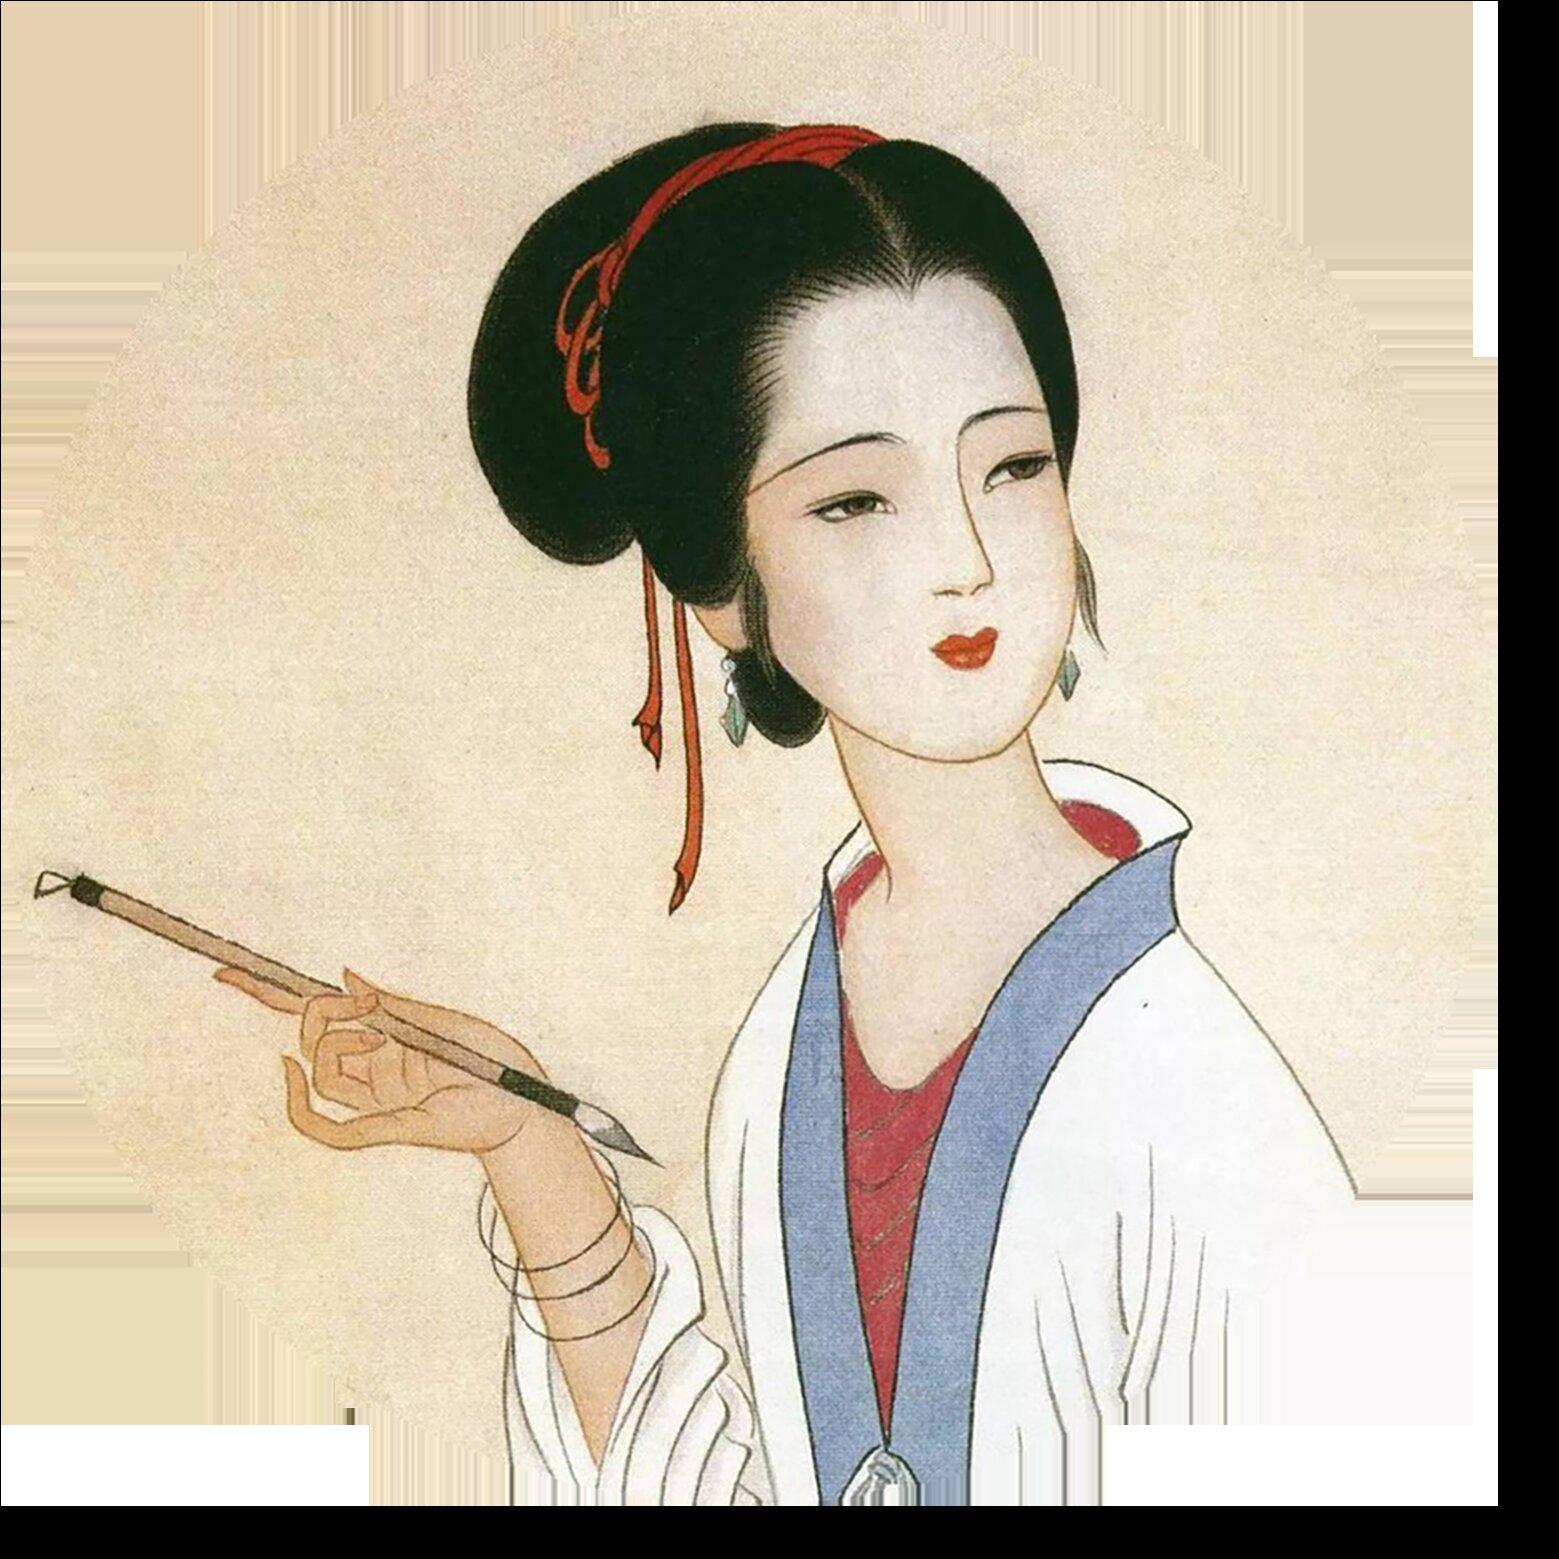
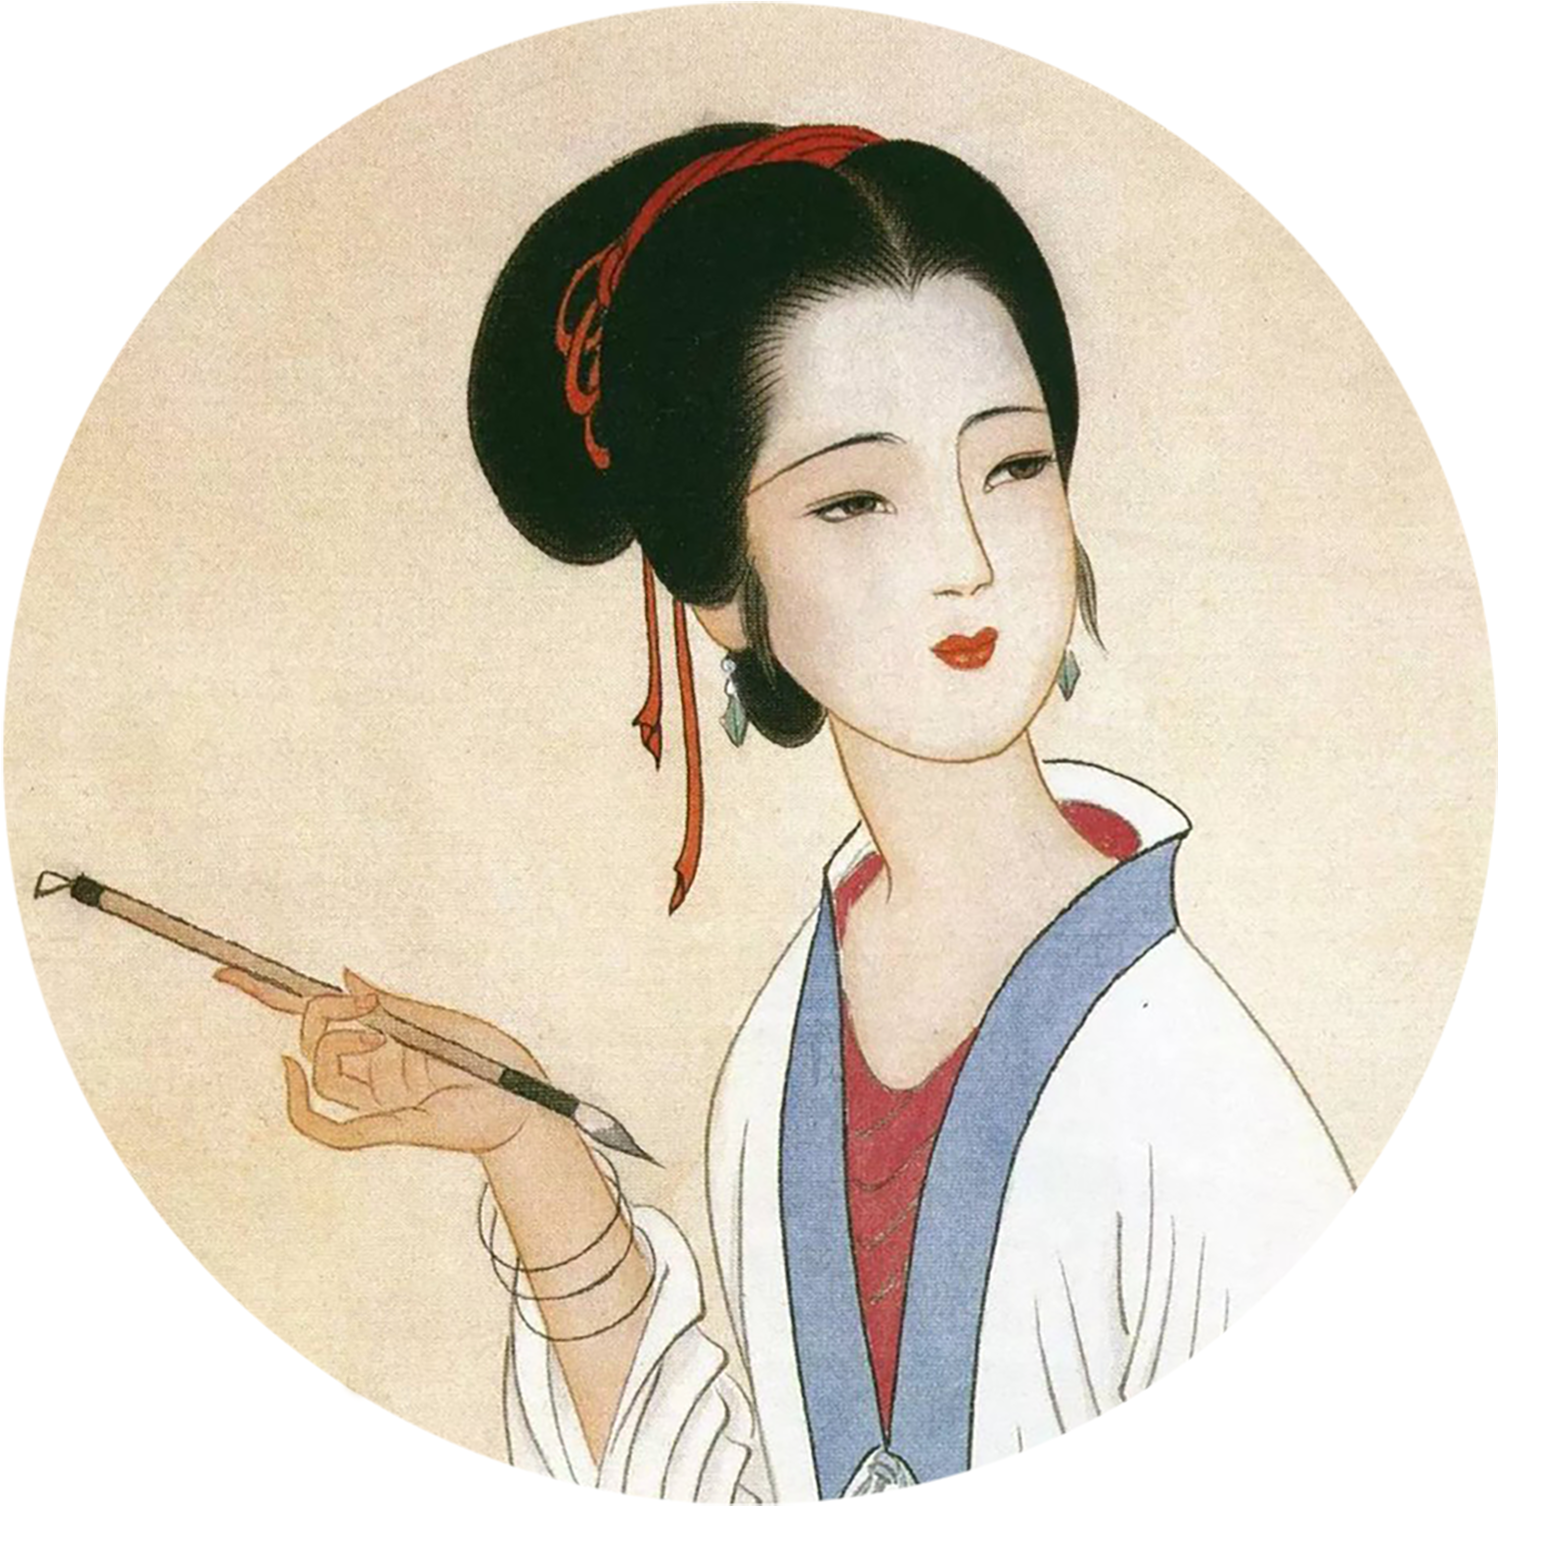
Restore round Li Qingzhao image (keep transparent corners)
The earlier compression turned the transparent PNG into a JPEG, which filled
the corners with white and made it look square.

Claude-Session: https://claude.ai/code/session_01D3C3RANvqHQNGFJQaV91dH

Changed region(s): [[0.0, 0.0, 1.0, 1.0], [0.0, 0.0, 0.4618, 0.4618], [0.7697, 0.8621, 0.8005, 0.8929]]

diff --git a/liqz1.html b/liqz1.html
@@ -48,7 +48,7 @@
 <div class="container0">
 	
 		<div class="photo0">
-		<img src="images/lqz.jpg";>
+		<img src="images/lqz.png";>
 		</div>
 	
 	<div class="box00" >
